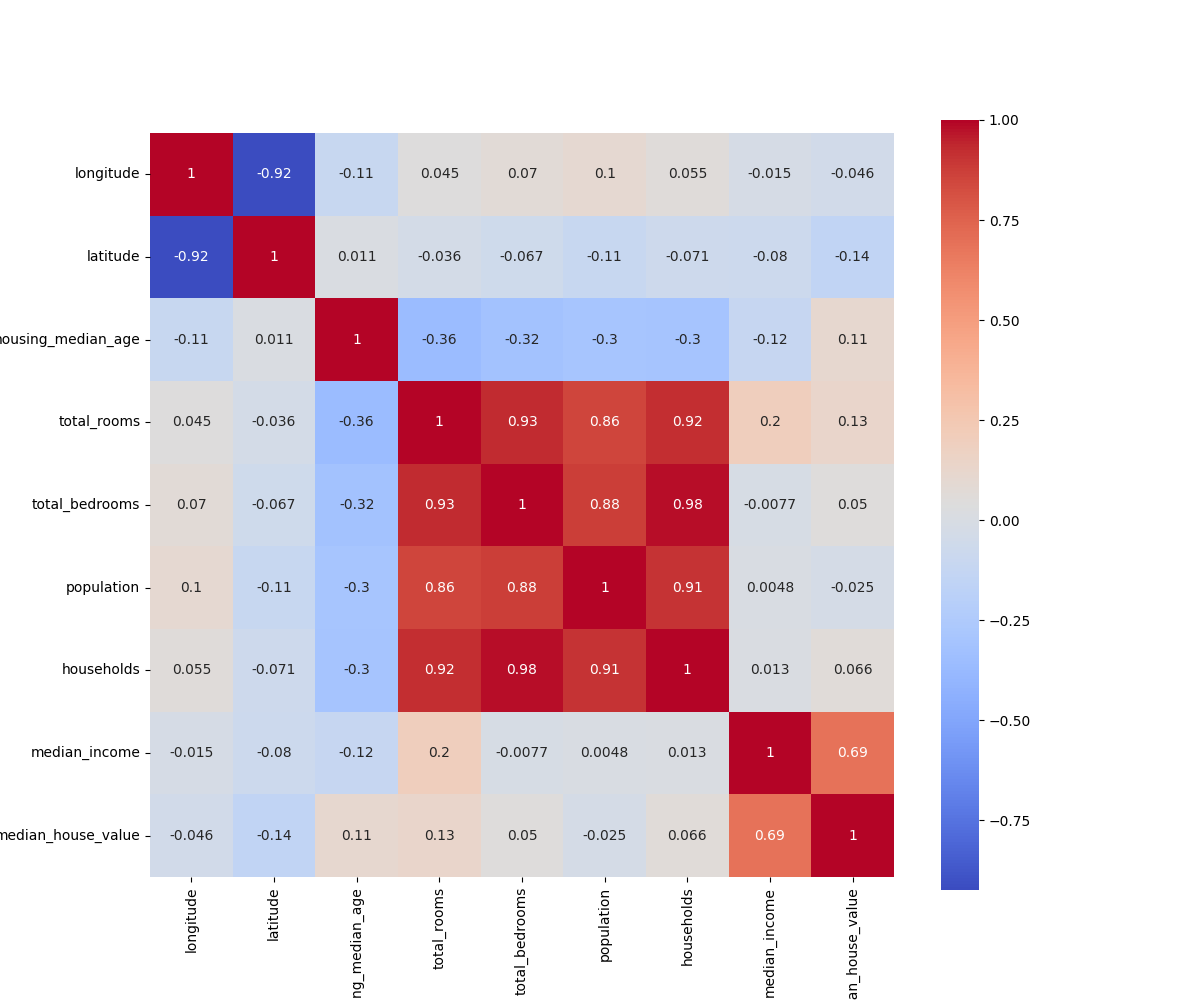
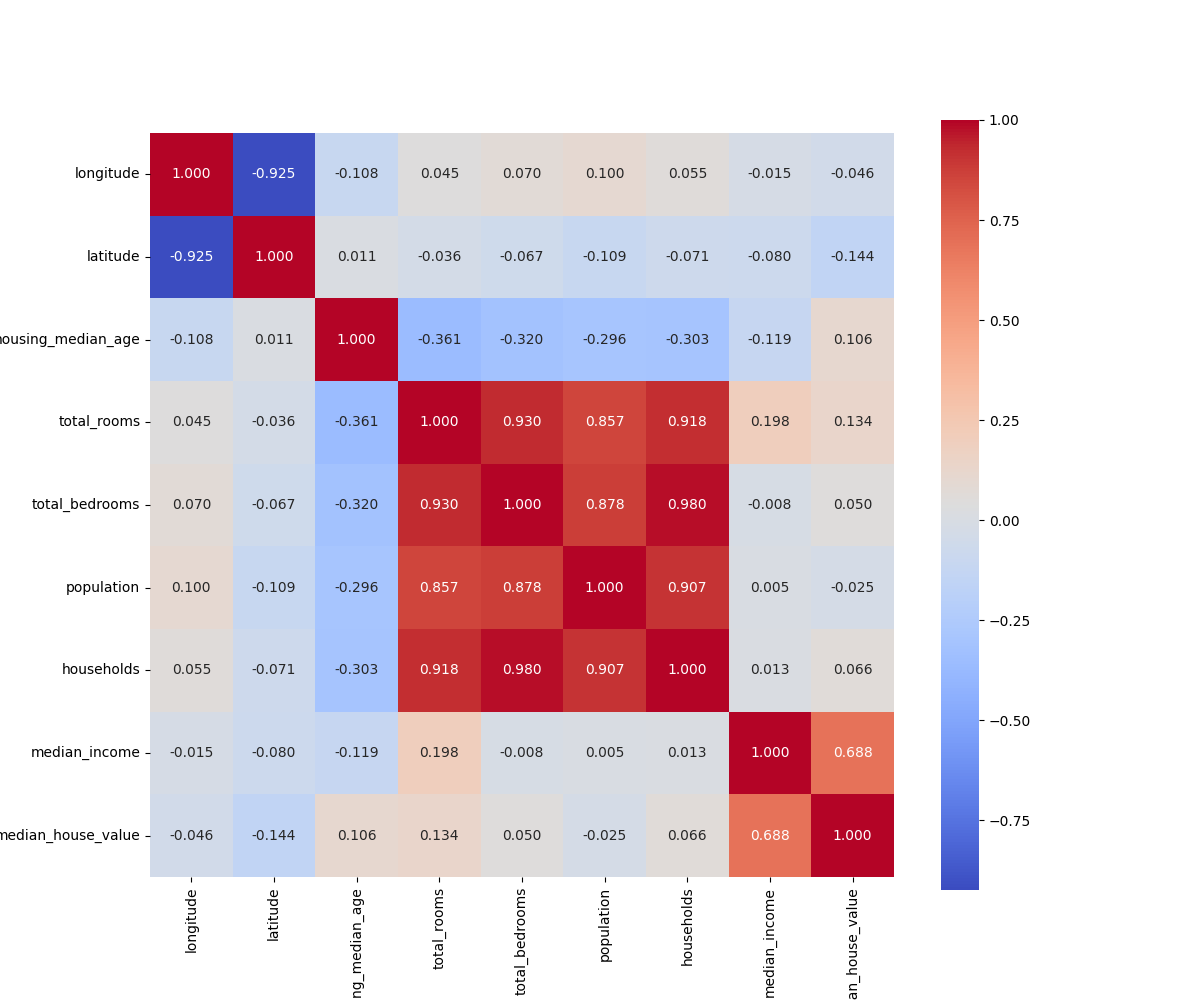
Prepare data for new model to predict phone addiction

diff --git a/R2/exercise.py b/R2/exercise.py
@@ -1,0 +1,27 @@
+import pandas as pd
+import numpy as np
+import matplotlib.pyplot as plt
+import seaborn as sns
+
+def save_corr_matrix(data):
+    corr_matrix = data.corr(numeric_only=True)
+    print(corr_matrix['Addiction_Level'].sort_values(ascending=False))
+
+    plt.figure(figsize=(16, 14))
+    sns.heatmap(corr_matrix, fmt='.3f', annot=True, cmap='coolwarm', square=True)
+    plt.savefig('R2/content/corr_plot_phones.png')
+
+def load_data():
+
+    data = pd.read_csv('R2/content/data/teen_phone_addiction_dataset.csv')
+    data = data.drop(columns=['ID', 'Name', 'Location', 'School_Grade', 'Anxiety_Level', 'Depression_Level']) 
+
+    print(data.head())
+    print(data.info())
+    # print(data['Phone_Usage_Purpose'].value_counts())
+    # print(data['Apps_Used_Daily'].value_counts())
+
+    # save_corr_matrix(data)
+    return data
+
+data = load_data()

diff --git a/R2/main.py b/R2/main.py
@@ -20,7 +20,7 @@ def save_model(model):
     joblib.dump(model, 'MODELS/california_housing_model.pkl')
 
 def load_housing_data():
-    return pd.read_csv('R2/content/housing.csv')
+    return pd.read_csv('R2/content/data/housing.csv')
 
 data = load_housing_data()
 
